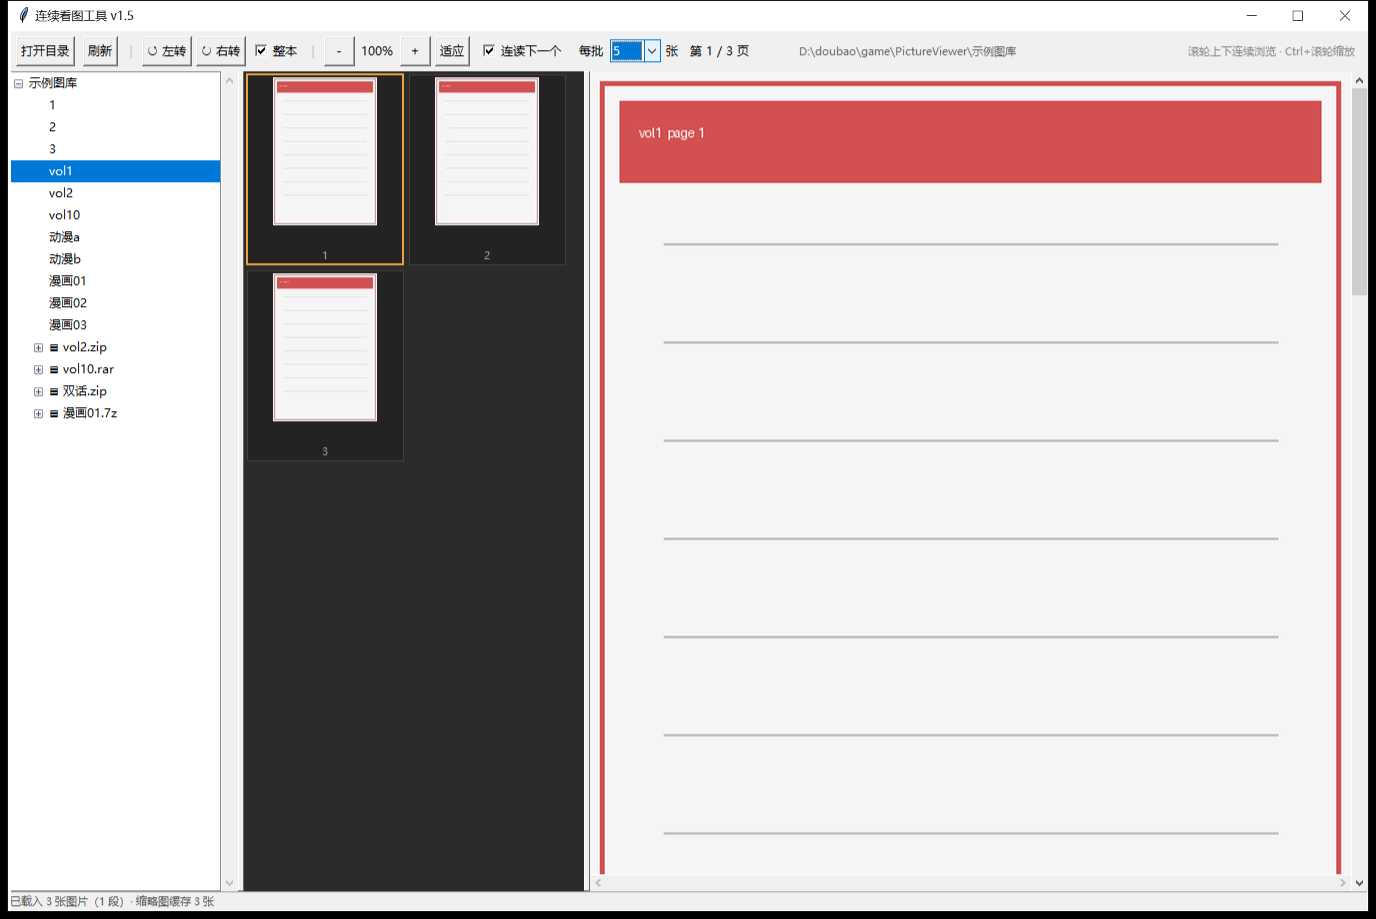
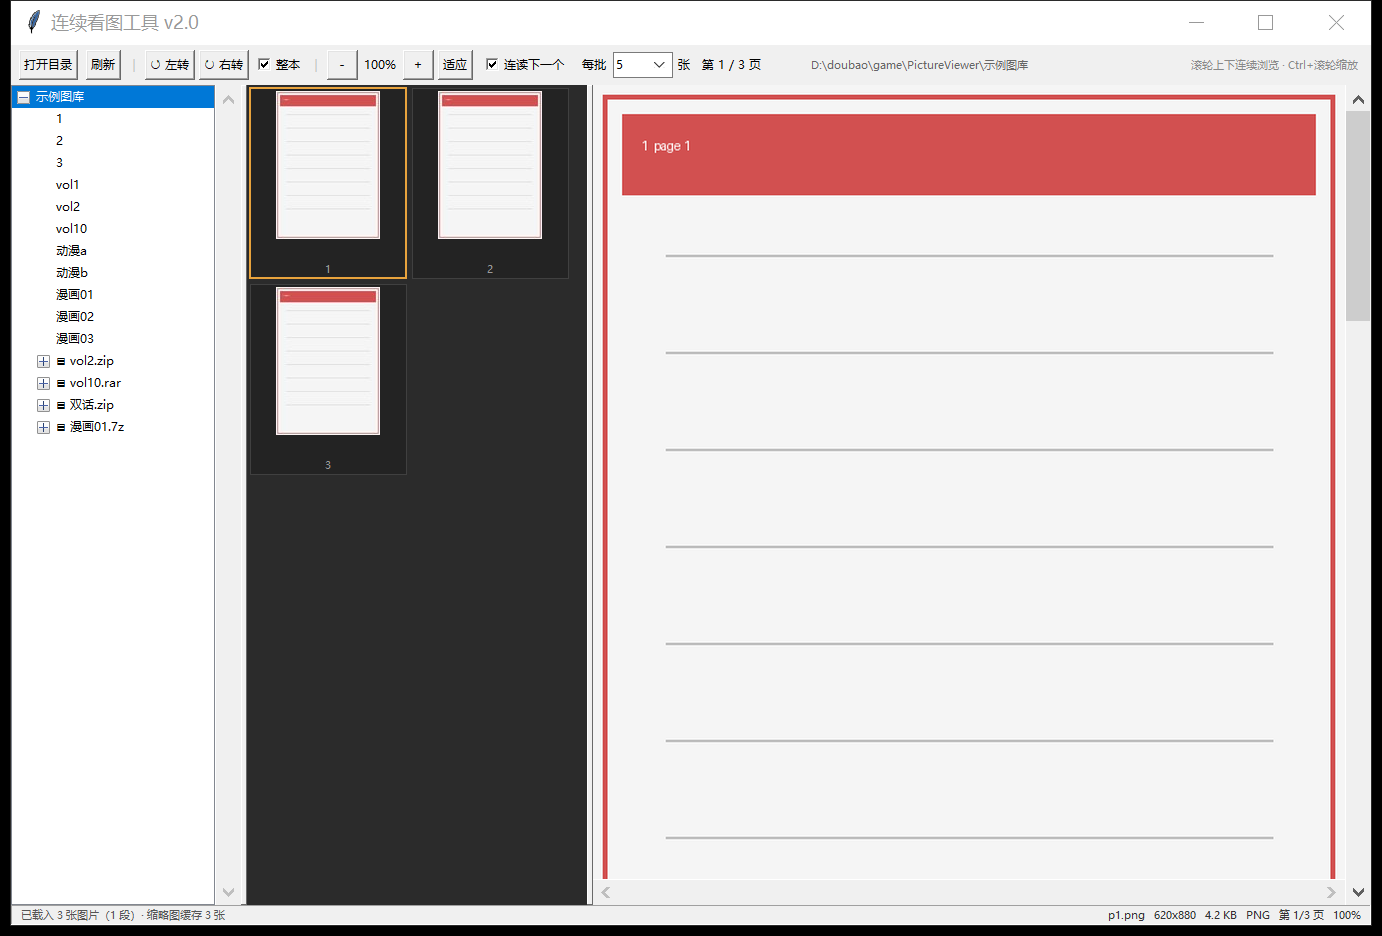
feat: v2.0 纯净看图 / 右键菜单 / 状态栏 / 单文件 exe
- 双击图片区或右键「只看图片」→ 收起工具栏与左右两栏 + 全屏，Esc 或再双击恢复
- 右键菜单：打开文件夹/文件、每批 5/10/20、放大缩小、适应窗口、固定图片宽度、刷新
- 固定图片宽度（像素），0 恢复适应窗口；固定后横向滚动查看
- 底部状态栏右侧常显 文件名/像素/体积/格式/页码/缩放
- 新增打包脚本与 dist\\看图工具.exe（PyInstaller 6.x 单文件 windowed）
- 自检 [11] 覆盖固定宽度、纯净模式进出、状态栏信息

diff --git a/自检.py b/自检.py
@@ -388,6 +388,27 @@ def check_gui():
     print("    批次下拉 5 / 10 / 20 切换 OK（当前 %d，存在 config.json）" % app.batch)
     app.autonext.set(1)
 
+    # 固定图片宽度 / 纯净看图 / 状态栏信息
+    app.set_fixed_width_value(1400)
+    wait(root, 0.6)
+    print("[11] 固定宽度：dw=%d px，缩放标签 %s" % (app.dw, app.zoom_var.get()))
+    assert app.dw == 1400 and "1400" in app.zoom_var.get()
+    app._enter_view_mode()
+    wait(root, 0.6)
+    print("     纯净看图：view_mode=%s，工具栏可见=%s，面板数=%d"
+          % (app.view_mode, app.bar.winfo_ismapped(), len(app.paned.panes())))
+    assert app.view_mode and not app.bar.winfo_ismapped()
+    assert len(app.paned.panes()) == 1, "纯净模式应只留图片浏览区"
+    app._exit_view_mode()
+    wait(root, 0.6)
+    assert not app.view_mode and app.bar.winfo_ismapped()
+    assert len(app.paned.panes()) == 3, "退出后应恢复三栏"
+    txt = app.info.cget("text")
+    print("     状态栏：%s" % txt)
+    assert "PNG" in txt.upper() and "x" in txt and ("B" in txt), "状态栏要显示尺寸/体积/格式"
+    app.set_fixed_width_value(0)
+    wait(root, 0.4)
+
     root.destroy()
     print("    三栏界面、旋转、缩放、zip 读取、连读（同级 / 包内 / 父目录下钻）、分批读取 —— 全部正常")
 

diff --git a/使用说明.md b/使用说明.md
@@ -1,4 +1,4 @@
-# 连续看图工具 v1.7（Windows 7 / 10 可用）
+# 连续看图工具 v2.0（Windows 7 / 10 可用）
 
 一个专门用来看漫画、图集、扫描页的本地看图器：左边目录树（文件夹和压缩包都能直接进）、中间缩略图、右边一整条连续长图，滚轮往下滚就像翻书一样一路读下去；页面可以左右转 90°，也能放大缩小；读到一本的最后一页会自动接上下一本。
 
@@ -35,11 +35,19 @@
 | 滚轮连续滑动、图片紧贴 | 把所有页按宽度缩放后一张接一张排成超长画布，页间 0 间隙；只解码视口附近页面（上下各多备一页）；超长竖图自动切 1000px 一片 |
 | 分批读取、省内存 | 打开一本只先读 **前 5 张**（只列文件名 + 量这 5 张尺寸），滚到第 3 张附近后台补下一批；读到这本最后几张时，连**下一个文件夹/压缩包的前一批**也提前备好。工具栏 `每批` 下拉可切 5 / 10 / 20 张，改完立即生效并记进 `config.json`。状态栏会显示「后面还有 N 张没读」，一千页也不会一开就爆内存 |
 | 「最终 / 最后」排最后 | 名字是 `最终` / `最后` / `完结` / `大结局`，或**名字里含** `最终话` / `最后话` / `最终回` / `最终章` / `终章` / `完结篇`（如 `最终话-后篇`），或以收尾词结尾（如 `第10话 最终`）的文件夹、压缩包、图片，默认排在所有正常章节之后。只影响显示顺序，不改文件名 |
+| 双击进纯净看图 | 在图片区双击 → 工具栏/左树/缩略图收起 + 全屏，只剩图片和状态栏；再双击或 `Esc` 退出，恢复三栏与原来的窗口大小 |
+| 右键菜单 | 图片区、缩略图、目录树、状态栏上右键：打开文件夹、打开文件（图片/压缩包）、每批 5/10/20、放大、缩小、适应窗口大小、固定图片宽度（像素，0 恢复）、只看图片、刷新 |
+| 底部状态栏 | 右侧常显：`文件名 像素尺寸 文件体积 格式 第 n/N 页 当前缩放`（如 `p1.png 620x880 4.2 KB PNG 第 1/3 页 100%`） |
+| 免装 Python 的 exe | `dist\看图工具.exe`，单文件、双击即用；支持 `看图工具.exe "D:\漫画\vol1.rar"` 直接带目录/压缩包启动 |
 | 读 zip / rar / 7z（含 cbz / cbr） | 压缩包在目录树里和文件夹并列（名字前带 `▤`）。zip/cbz 用 Python 自带 zipfile，自带 GBK 文件名修复；rar/cbr 调 `UnRAR.exe`（本机 `C:\Program Files\WinRAR\`），7z 调 `7z.exe`（本机 `D:\tool\7-Zip`），都找不到时可以回退到对方。解压结果缓存在 `extract_cache\`，同一个包第二次点开是秒开 |
 | 左右旋转 / 放大缩小 | 工具栏 `↺ 左转` `↻ 右转`：转的是「正在看的那一页」；勾上 **整本** 就一次把整个文件夹/压缩包所有页一起转（适合扫描件方向歪了的整本漫画）。缩略图会跟着转。`－ / ＋` 或 **Ctrl+滚轮** 缩放 40%–400%，**适应** 一键回到按窗口宽度显示，放大后下面的横向滚动条拖左右 |
 | 读到末尾自动接下一本 | 读到当前文件夹/压缩包最后一页、再往下滚一格，自动接上**目录树里紧邻的下一个**。顺序和左栏一致：自己有图先读完自己，再按自然顺序进子目录，子目录全部读完才轮到同级的下一卷（`1→2→3→vol1→vol2→vol10`，`vol1` 不会和 `vol10` 挨在一起）；从某一卷读完只接它所在那一层的下一卷，不会跳到上级目录。一个包里有多话（多个含图子目录）时，先读第 1 话、往下滚自动接包内第 2 话，包内读完才跳到外面下一个包。选中「自己没图、只装图片文件夹」的父目录会自动进第一个有图的子目录开始读。拼接是**在同一条连续长图上追加**，滚动位置不跳。工具栏 `连读下一个` 可关闭 |
 
 ## 细节说明
+
+- 双击图片区进入纯净看图（全屏、只留图片和状态栏），再双击或 `Esc` 退出
+- 右键可打开文件夹/文件、切每批 5/10/20、放大缩小、适应窗口、固定图片宽度、只看图片、刷新
+- 「固定图片宽度」按输入的像素显示（适合固定阅读宽度），填 0 回到适应窗口；固定后可用底部横向滚动条左右拖
 
 - 支持图片格式：jpg / jpeg / png / bmp / gif / webp / tif / tiff
 - 打开压缩包时，如果包里有且只有一层同名文件夹（`vol1.zip` 里是 `vol1/`），会自动钻进去，不用手点

diff --git a/README.md b/README.md
@@ -46,6 +46,21 @@
 - 接上的每一段都记在自己的区间里，「整本旋转」只作用于当前这一段，不会把后面接上的一起转
 - 工具栏 `连读下一个` 可关掉，关掉后读到末尾就停住
 
+**7. 双击进纯净看图**
+在图片区双击，工具栏、左树、中缩略图全部收起，只剩图片 + 底部状态栏，同时切全屏；再双击或按 `Esc` 回到三栏。右键菜单里也有「只看图片」。窗口大小和上次目录照旧记住，退出后回到原来的窗口尺寸。
+
+**8. 右键菜单 + 底部状态栏**
+右键（图片区、缩略图、目录树、状态栏都行）会出菜单：打开文件夹、打开文件（图片或压缩包）、每批张数 5/10/20、放大、缩小、适应窗口大小、固定图片宽度（输入像素，0 恢复适应）、只看图片、刷新。底部状态栏右侧常显当前页信息：**文件名 · 像素尺寸 · 文件体积 · 格式 · 第 n/N 页 · 当前缩放**。
+
+**9. 直接双击 exe 就能用**
+`dist\看图工具.exe` 是 PyInstaller 打好的单文件绿色版，不需要装 Python；也能把图片目录/压缩包拖给它（命令行参数 `看图工具.exe "D:\漫画\vol1.rar"`）。
+
+打包命令（本机已装 PyInstaller 6.x）：
+
+```bat
+python -m PyInstaller --noconfirm --clean --onefile --windowed --name "看图工具" 看图工具.pyw
+```
+
 ## 环境要求 / Requirements
 
 | 项目 | 要求 | 说明 |
